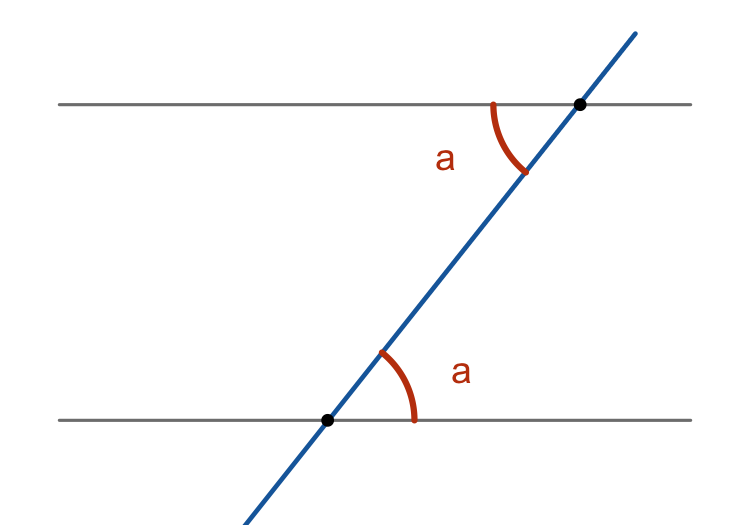
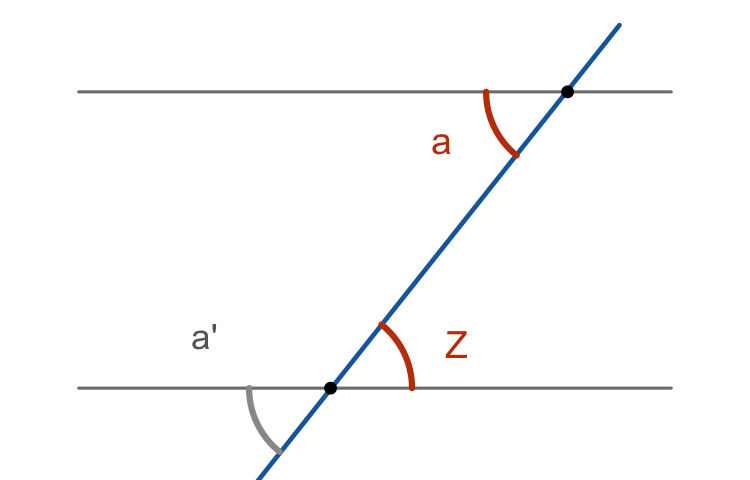
Module 2: prove the Z rule from opposite angles instead of asserting it
Split the old single-axiom "Z rule" slide into two: a proven fact
(opposite angles at a crossing are equal, from angles on a line) and
a derivation of the Z rule from it via sliding + that fact. Updated
concepts.md to match, including the grown-up note on what is still
taken on faith.

diff --git a/module-02/slides.html b/module-02/slides.html
@@ -36,6 +36,7 @@ together into one straight line. Always. Why *always*?
 
 &lt;style type="text/css"&gt;
 .why { clear: both; margin-top: 0.1em; font-size: 85%; }
+.step { clear: both; display: block; margin-top: 0.3em; }
 &lt;/style&gt;
 
 # The experiment
@@ -89,7 +90,37 @@ and this is where it starts.
 
 ---
 
-# First, a smaller fact: the "Z" rule
+# An even smaller fact: crossing lines
+
+**Two straight lines cross. Look at the two angles directly opposite each
+other, across the crossing point. What is true about them?**
+
+--
+
+.pull-left[
+Two lines cross at a point and make **four** angles around it. Going around,
+label them **a**, **b**, **a**, **b**, so the two **a**'s sit directly
+opposite each other (and so do the two **b**'s).
+
+**The two opposite angles are equal.**
+]
+
+--
+
+.pull-right[
+&lt;img src="slides_files/figure-html/crossing-1.png" style="display: block; margin: auto;" /&gt;
+]
+
+--
+
+.why[
+**a** and **b** sit side by side along each line, so `a + b = 180` both
+times. Both **a**'s equal `180 - b`, so they match. No parallel lines needed.
+]
+
+---
+
+# Now stretch it to parallel lines: the Z rule
 
 **Two parallel lines, one slanted line crossing both, makes a Z. What is true
 about the two angles tucked inside the Z?**
@@ -97,13 +128,9 @@ about the two angles tucked inside the Z?**
 --
 
 .pull-left[
-Two **parallel** lines (use both edges of your ruler). One slanted line crossing
-both makes a **Z**.
-
-The two angles tucked inside the Z, one at each parallel line, on opposite sides
-of the slant, are **equal**.
-
-This is the **alternate angles** rule. It is *the* fact about parallel lines.
+Two **parallel** lines (use both edges of your ruler). One slanted line
+crossing both makes a **Z**, with an angle **a** at the top crossing and an
+angle tucked inside the Z at the bottom crossing.
 ]
 
 --
@@ -114,8 +141,37 @@ This is the **alternate angles** rule. It is *the* fact about parallel lines.
 
 --
 
+.step[
+Slide angle **a** straight down the slanted line to the bottom crossing. The
+lines are exactly parallel, so it lands with the same tilt and the same
+width: call it **a'** (grey). Only its position moved.
+]
+
+---
+
+# Finishing the Z rule
+
+**We slid a down to a'. How does a' finish the job?**
+
+--
+
+**a'** and the Z-angle sit directly opposite each other at the bottom
+crossing.
+
+--
+
+So by the crossing-lines fact from the last slide, **a' = Z-angle**.
+
+--
+
+Chain it together: `a = a'` (sliding along a parallel line), and `a' =` the
+Z-angle (opposite angles at a crossing). So `a =` the Z-angle.
+
+--
+
 .why[
-Slide one marked angle along the slant until it lands on the other: they match.
+That is the Z rule, now built from the one opposite-angles fact instead of
+just "trust the ruler."
 ]
 
 ---

diff --git a/module-02/concepts.md b/module-02/concepts.md
@@ -45,7 +45,27 @@ need an argument.
 
 ## Why does it work?
 
-### First, a smaller fact: the "Z" rule (alternate angles)
+### An even smaller fact first: crossing lines
+
+Draw any two straight lines crossing each other. They make four angles around
+the crossing point. Label them a, b, a, b going around, so the two a's sit
+directly opposite one another.
+
+```
+        a
+      \   /
+    b  \ /  b        the two a's (opposite each other)
+      / \             are EQUAL. So are the two b's.
+     /   \
+        a
+```
+
+Why: a and b sit side by side along one of the lines, so `a + b = 180`. The
+other a and that same b sit side by side along the other line, so
+`a + b = 180` there too. Both a's equal `180 - b`, so they equal each other.
+This needs no parallel lines at all, it is true for any two crossing lines.
+
+### Now stretch it to parallel lines: the "Z" rule (alternate angles)
 
 Draw two **parallel** lines (use both edges of your ruler, that guarantees they
 are parallel). Now draw one slanted line crossing both. It makes a "Z" shape.
@@ -53,14 +73,23 @@ are parallel). Now draw one slanted line crossing both. It makes a "Z" shape.
 ```
    ===========\=========   line 1
                \
-                \           the two marked angles, inside the Z,
-   ==============\=======   line 2  are EQUAL
+                \           the marked angle inside the Z at line 2
+   ==============\=======   line 2  equals the one at line 1
 ```
 
 The two angles tucked inside the Z (one at the top line, one at the bottom, on
-opposite sides of the slant) are equal. This is the alternate angles rule, and it
-is *the* fact about parallel lines. Convince yourself with the ruler: slide one
-angle along the slant line until it lands on the other; they match.
+opposite sides of the slant) are equal, but this is not obvious on its own; it
+takes two steps:
+
+1. Slide the top angle straight down the slanted line to the bottom crossing.
+   Because the lines are exactly parallel, it lands with the same tilt, same
+   width, just a different position. Call that copy a'.
+2. a' and the Z-angle at the bottom crossing are directly opposite each other,
+   so by the crossing-lines fact above, a' equals the Z-angle.
+
+Chain the two steps: top angle = a' (sliding along a parallel line), and
+a' = Z-angle (opposite angles at a crossing). So top angle = Z-angle. This is
+the alternate angles rule, and it is *the* fact about parallel lines.
 
 ### Now the proof
 
@@ -140,10 +169,12 @@ impossible for one to fail."
   "we tried three, why does that settle infinitely many?" Sit in that discomfort
   with him before reaching for the parallel line. The need for proof should feel
   *earned*, like the experiment left a gap that only an argument can fill.
-- The Z rule (alternate angles) is the one piece we take on faith from the
-  hands-on sliding. If he wants to know *why* alternate angles are equal, that is
-  a deeper question about what "parallel" even means, and it is fine to say "we
-  will take this one as our trusted starting block for today." Real geometry is
+- The Z rule now has a real two-step proof (opposite angles at a crossing, then
+  sliding that fact along a parallel line), rather than being taken purely on
+  faith. The one piece still taken on faith is that sliding an angle along a
+  parallel line does not change it, that is the actual content of "parallel."
+  If he pushes on *why* that sliding step is true, it is fine to say "we will
+  take this one as our trusted starting block for today." Real geometry is
   built on a small number of trusted starting blocks (axioms); picking them is
   part of the game.
 - Common stumble: drawing the helper line through A but *not* parallel to BC. The
